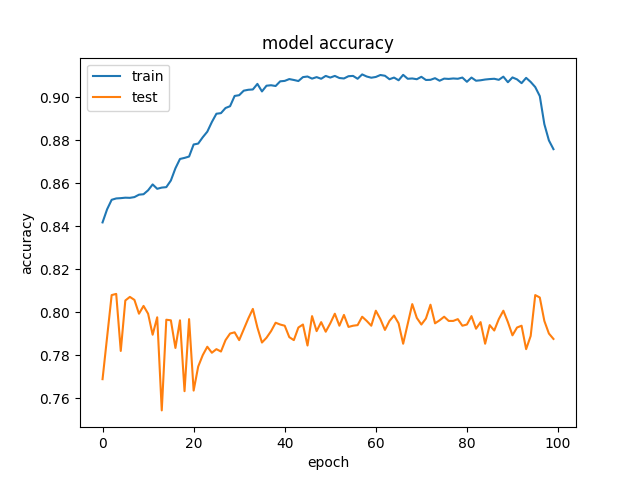
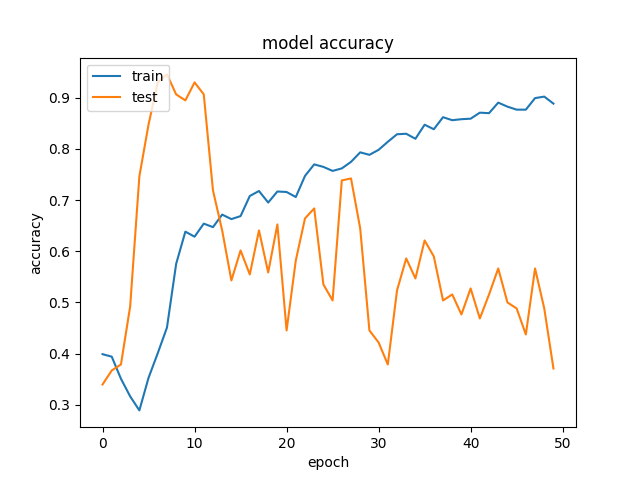
sigmoid

diff --git a/one_gpu_nih.py b/one_gpu_nih.py
@@ -116,7 +116,7 @@ model.add(Dense(512))
 model.add(Dropout(0.3))
 model.add(Dense(256))
 model.add(Dropout(0.3))
-model.add(Dense(len(all_labels), activation='softmax'))
+model.add(Dense(len(all_labels), activation='sigmoid'))
 model.compile(loss='mean_squared_logarithmic_error', optimizer='adamax', metrics=['top_k_categorical_accuracy'])
 model.summary()
 
